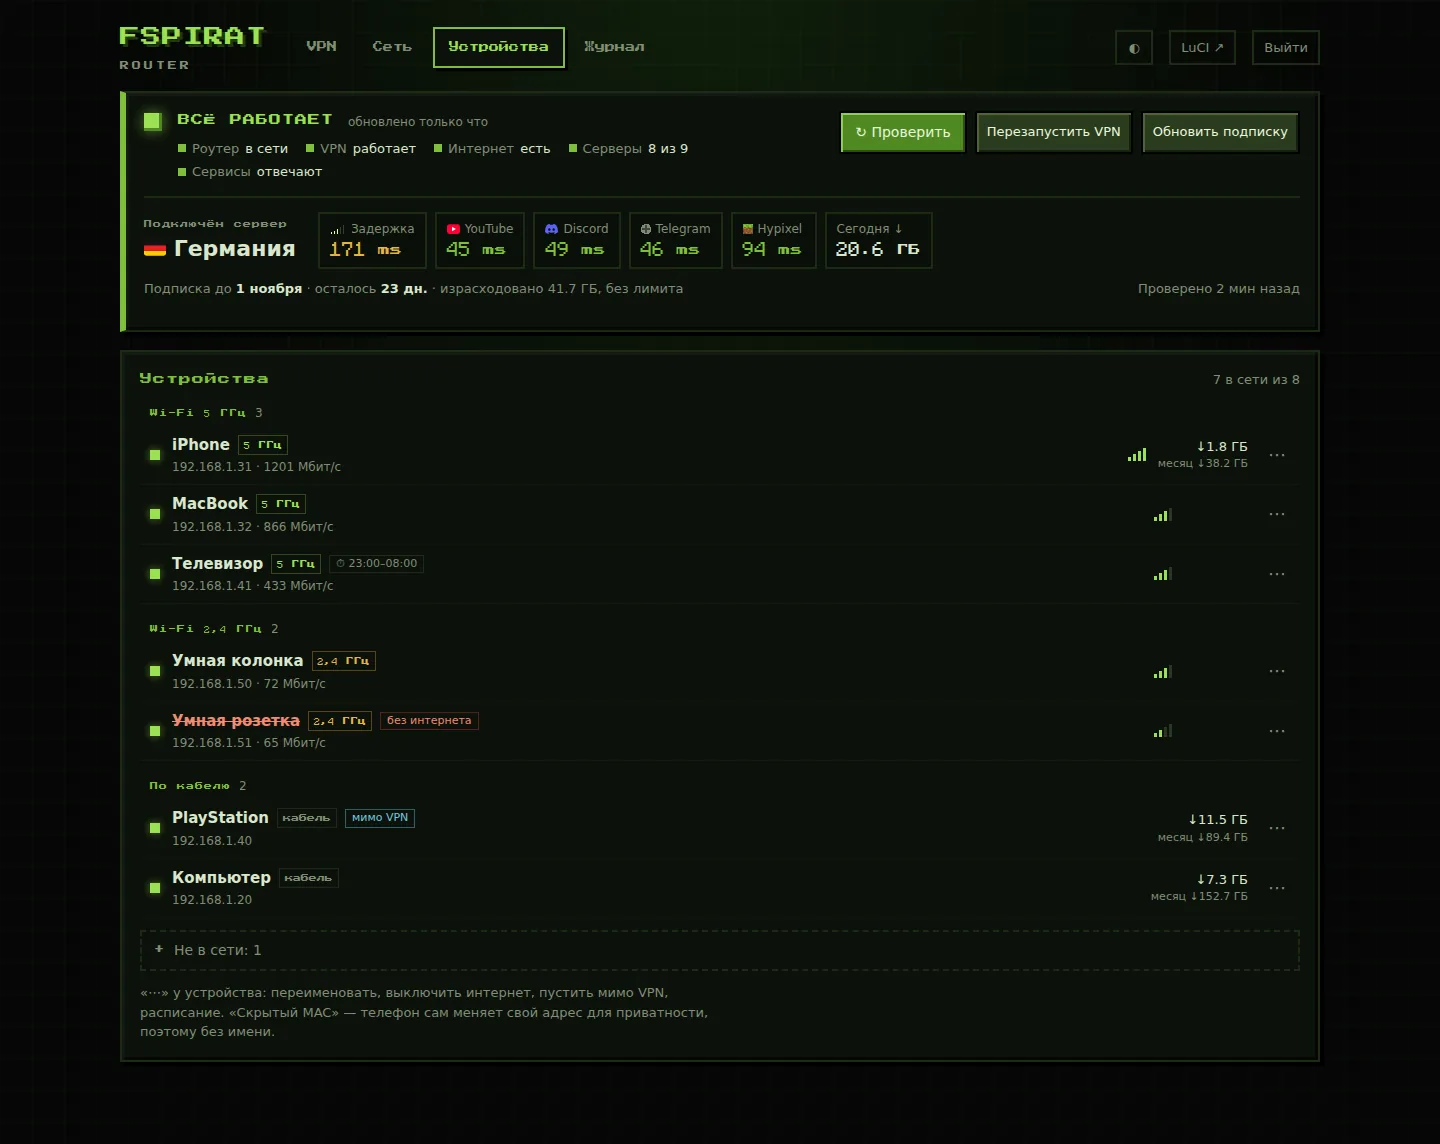
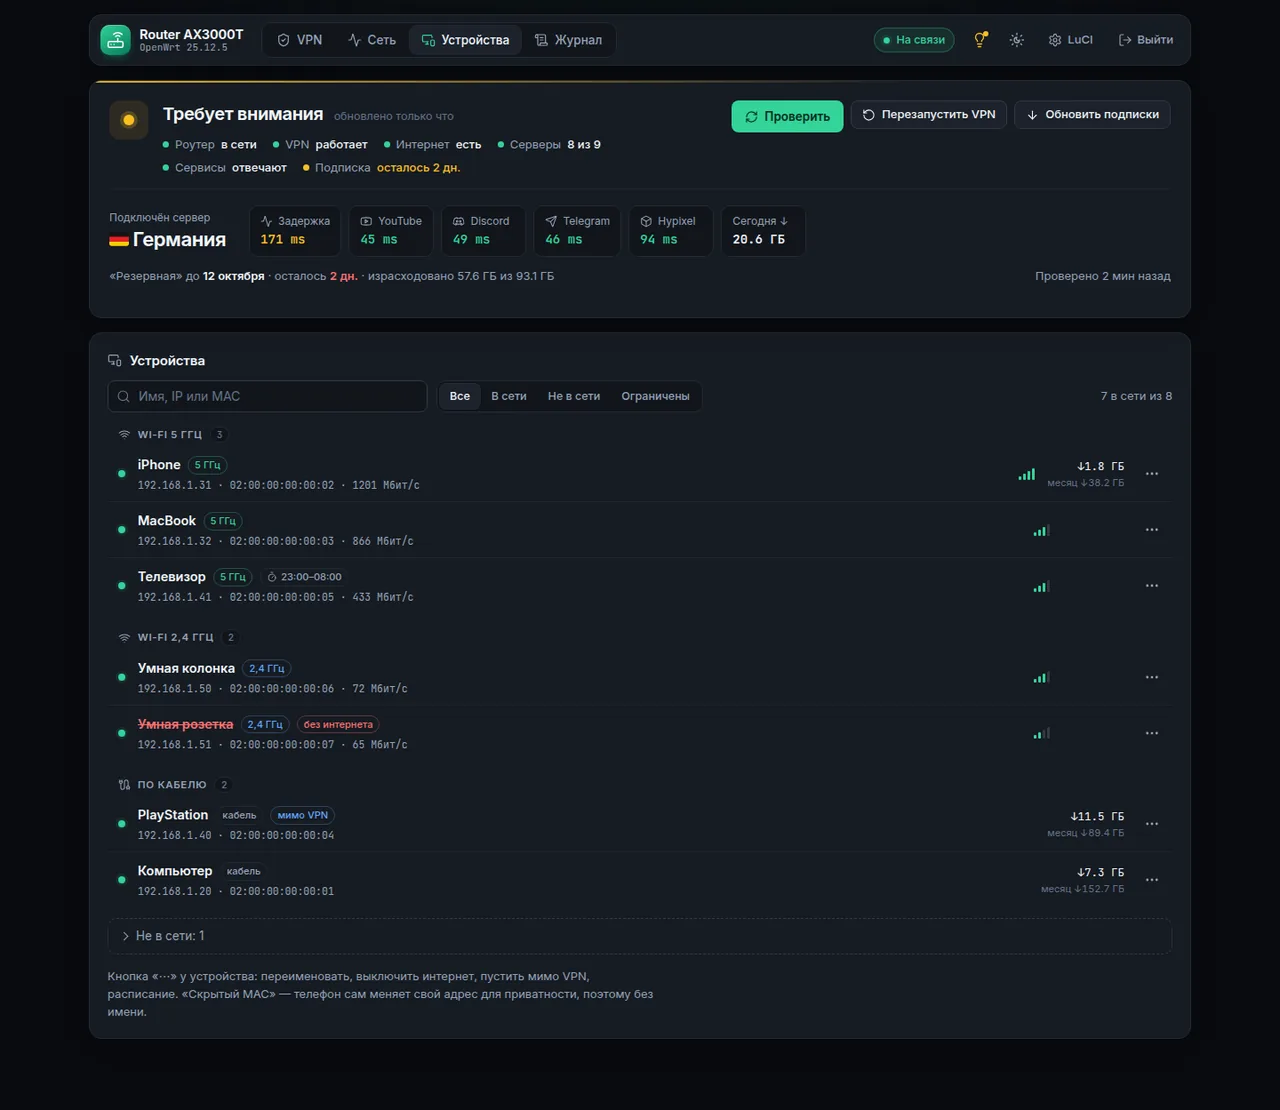
README and screenshots for the new panel; even table header
- README: new name, design, subscriptions, LED, install link; fresh
  screenshots (dark and light VPN tab, network, devices, mobile, login)
- Server table header: sort arrow no longer shifts the column label,
  all labels and icons sit on one line

Claude-Session: https://claude.ai/code/session_01NdSGZGmfNCsTrV4NUyDyrG

diff --git a/web/app.css b/web/app.css
@@ -225,15 +225,16 @@ i.ok,b.ok{color:var(--acc-tx)} i.mid,b.mid{color:var(--warn)} i.slow,b.slow{colo
 .srv-tbl{width:100%;border-collapse:collapse;font-size:14px}
 .srv-tbl thead th{font-weight:500;font-size:11.5px;color:var(--dim);text-align:center;padding:4px 4px 10px;border-bottom:1px solid var(--border);white-space:nowrap;vertical-align:bottom}
 .srv-tbl thead th:first-child{text-align:left;padding-left:8px}
-.srv-tbl thead .pi{display:block;margin:0 auto 3px;width:18px;height:14px}
-.srv-tbl thead .si{display:block;margin:0 auto 4px;width:14px;height:14px}
+.srv-tbl thead .pi{display:block;margin:0 auto;width:18px;height:14px}
+.srv-tbl thead .si{display:block;margin:0 auto;width:14px;height:14px}
 /* сортировка по столбцу: кнопка в заголовке */
-.sort{all:unset;box-sizing:border-box;display:inline-flex;flex-direction:column;align-items:center;cursor:pointer;padding:2px 4px;border-radius:6px}
-.srv-tbl thead th:first-child .sort{flex-direction:row;gap:6px}
+.sort{all:unset;box-sizing:border-box;position:relative;display:inline-flex;flex-direction:column;align-items:center;gap:4px;cursor:pointer;padding:2px 4px 11px;border-radius:6px}
+.srv-tbl thead th:first-child .sort{flex-direction:row;gap:6px;padding:2px 16px 11px 4px}
 .sort:hover{color:var(--text)}
 .sort:focus-visible{outline:2px solid var(--acc);outline-offset:1px}
-.sort::after{content:"";width:0;height:0;border:4px solid transparent;margin-top:3px;opacity:0}
-.srv-tbl thead th:first-child .sort::after{margin:3px 0 0}
+/* стрелка сортировки — поверх отступа, не меняет высоту заголовка: все подписи стоят на одной линии */
+.sort::after{content:"";position:absolute;left:50%;bottom:1px;margin-left:-4px;width:0;height:0;border:4px solid transparent;opacity:0}
+.srv-tbl thead th:first-child .sort::after{left:auto;right:3px;bottom:auto;top:9px;margin:0}
 th[aria-sort] .sort{color:var(--text)}
 th[aria-sort="ascending"] .sort::after{opacity:1;border-bottom-color:var(--acc);border-top-width:0}
 th[aria-sort="descending"] .sort::after{opacity:1;border-top-color:var(--acc);border-bottom-width:0}

diff --git a/README.md b/README.md
@@ -1,22 +1,22 @@
-# 🛰 FSPIRAT Router — домашний роутер с VPN, веб-панелью и Telegram-ботом
+# 🛰 Router AX3000T — домашний роутер с VPN, веб-панелью и Telegram-ботом
 
 ![OpenWrt](https://img.shields.io/badge/OpenWrt-25.12-00B5E2?logo=openwrt&logoColor=white)
 ![PassWall 2](https://img.shields.io/badge/PassWall%202-Xray-6A5ACD)
 ![Server](https://img.shields.io/badge/%D1%81%D0%B5%D1%80%D0%B2%D0%B5%D1%80-Ubuntu%2024.04%20%C2%B7%20nginx%20%C2%B7%20PHP-E95420?logo=ubuntu&logoColor=white)
 ![Telegram](https://img.shields.io/badge/Telegram-%D0%B1%D0%BE%D1%82-26A5E4?logo=telegram&logoColor=white)
 
-Скрипты и конфигурация домашнего роутера на OpenWrt с VPN через PassWall 2 и панель управления к нему. Панель открывается из браузера через VPS, уведомления и управление идут через Telegram-бота.
+Скрипты и конфигурация домашнего роутера на OpenWrt с VPN через PassWall 2 и панель управления к нему. Панель открывается из браузера через VPS, уведомления и управление идут через Telegram-бота. Панель — тёмная, светлая или как в системе, на компьютере и телефоне; шрифты Inter и JetBrains Mono, иконки Lucide, без внешних CDN.
 
-Российские сайты и всё, что попало в список **MyDirect**, открывается напрямую. Остальной трафик идёт через VPN: сервер подписки или свои серверы в Германии и Нидерландах. Если текущий сервер перестал работать, роутер сам переключается на лучший.
+Российские сайты и всё, что попало в список **MyDirect**, открывается напрямую. Остальной трафик идёт через VPN: серверы подписок (их можно добавлять и удалять в панели) или свои серверы. Если текущий сервер перестал работать, роутер сам переключается на лучший.
 
 По желанию (переключатели в панели) YouTube и Discord идут напрямую через провайдера с обходом DPI (**zapret**), а Telegram на всех устройствах дома — через Cloudflare мимо VPN (**tg-ws-proxy**), без настройки на устройствах.
 
 > [!NOTE]
-> Это личная инфраструктура под конкретную связку: Xiaomi AX3000T, OpenWrt 25.12, PassWall 2 и VPS на Ubuntu 24.04. В скриптах зашиты адреса, имена узлов PassWall и пути, поэтому для другой сети их придётся править. Универсального установщика нет.
+> Проект сделан под связку Xiaomi AX3000T, OpenWrt 25.12, PassWall 2 и VPS на Ubuntu 24.04. Развернуть такую же панель у себя — по инструкции [`INSTALL.md`](INSTALL.md): адреса задаются в `deploy.conf`, узел Split роутер находит сам, подписки добавляются из панели.
 
 <p align="center">
-  <img src="docs/screenshots/panel-vpn.webp" alt="Панель: вкладка VPN" width="85%">
-  <br><sub>Вкладка «VPN». Здесь и ниже скриншоты сделаны на демо-данных: устройства, адреса и цифры выдуманы.</sub>
+  <img src="docs/screenshots/panel-vpn.webp" alt="Панель: вкладка VPN, тёмная тема" width="85%">
+  <br><sub>Вкладка «VPN»: общее состояние, таблица серверов по подпискам с сортировкой, график связи, Zapret и Telegram, подписки. Здесь и ниже скриншоты сделаны на демо-данных: устройства, адреса и цифры выдуманы.</sub>
 </p>
 
 ## Как это устроено
@@ -52,6 +52,7 @@
 - ✅ MyDirect: добавление и удаление сайтов, которые открываются без VPN, и переключатель «пускать сервис напрямую»
 - ✅ Устройства (поиск по имени, IP и MAC, фильтры): диапазон Wi-Fi, сигнал, трафик за день и месяц. Устройство можно переименовать, выключить ему интернет, пустить мимо VPN или задать расписание
 - ✅ Вход по паролю с кодом из Telegram на новом устройстве, кнопка «выйти на всех устройствах»
+- ✅ Журнал с поиском и фильтрами; в шапке — модель роутера и версия OpenWrt с самого роутера
 - ✅ Подсветка роутера (LED) — переключатель в шапке; светлая, тёмная и системная тема
 - ✅ Мобильная версия с нижней навигацией, установка как приложение (PWA)
 
@@ -103,13 +104,22 @@
 ## Скриншоты
 
 <p align="center">
+  <img src="docs/screenshots/panel-vpn-light.webp" alt="Вкладка VPN, светлая тема" width="85%">
+  <br><sub>Светлая тема (переключатель в шапке: светлая, тёмная, как в системе)</sub>
+</p>
+
+<p align="center">
   <img src="docs/screenshots/panel-net.webp" alt="Вкладка «Сеть»: скорость, ресурсы роутера, MyDirect" width="62%">
   <img src="docs/screenshots/panel-mobile.webp" alt="Мобильная версия" width="27%">
   <br><sub>Вкладка «Сеть»: тест скорости, ресурсы роутера, MyDirect · мобильная версия</sub>
 </p>
 <p align="center">
   <img src="docs/screenshots/panel-devices.webp" alt="Вкладка «Устройства»" width="85%">
-  <br><sub>Вкладка «Устройства»: диапазон Wi-Fi, трафик, блокировка, расписание, «мимо VPN»</sub>
+  <br><sub>Вкладка «Устройства»: поиск и фильтры, диапазон Wi-Fi, трафик, блокировка, расписание, «мимо VPN»</sub>
+</p>
+<p align="center">
+  <img src="docs/screenshots/login.webp" alt="Страница входа" width="55%">
+  <br><sub>Вход: пароль, на новом устройстве — код из Telegram</sub>
 </p>
 
 ## Требования
